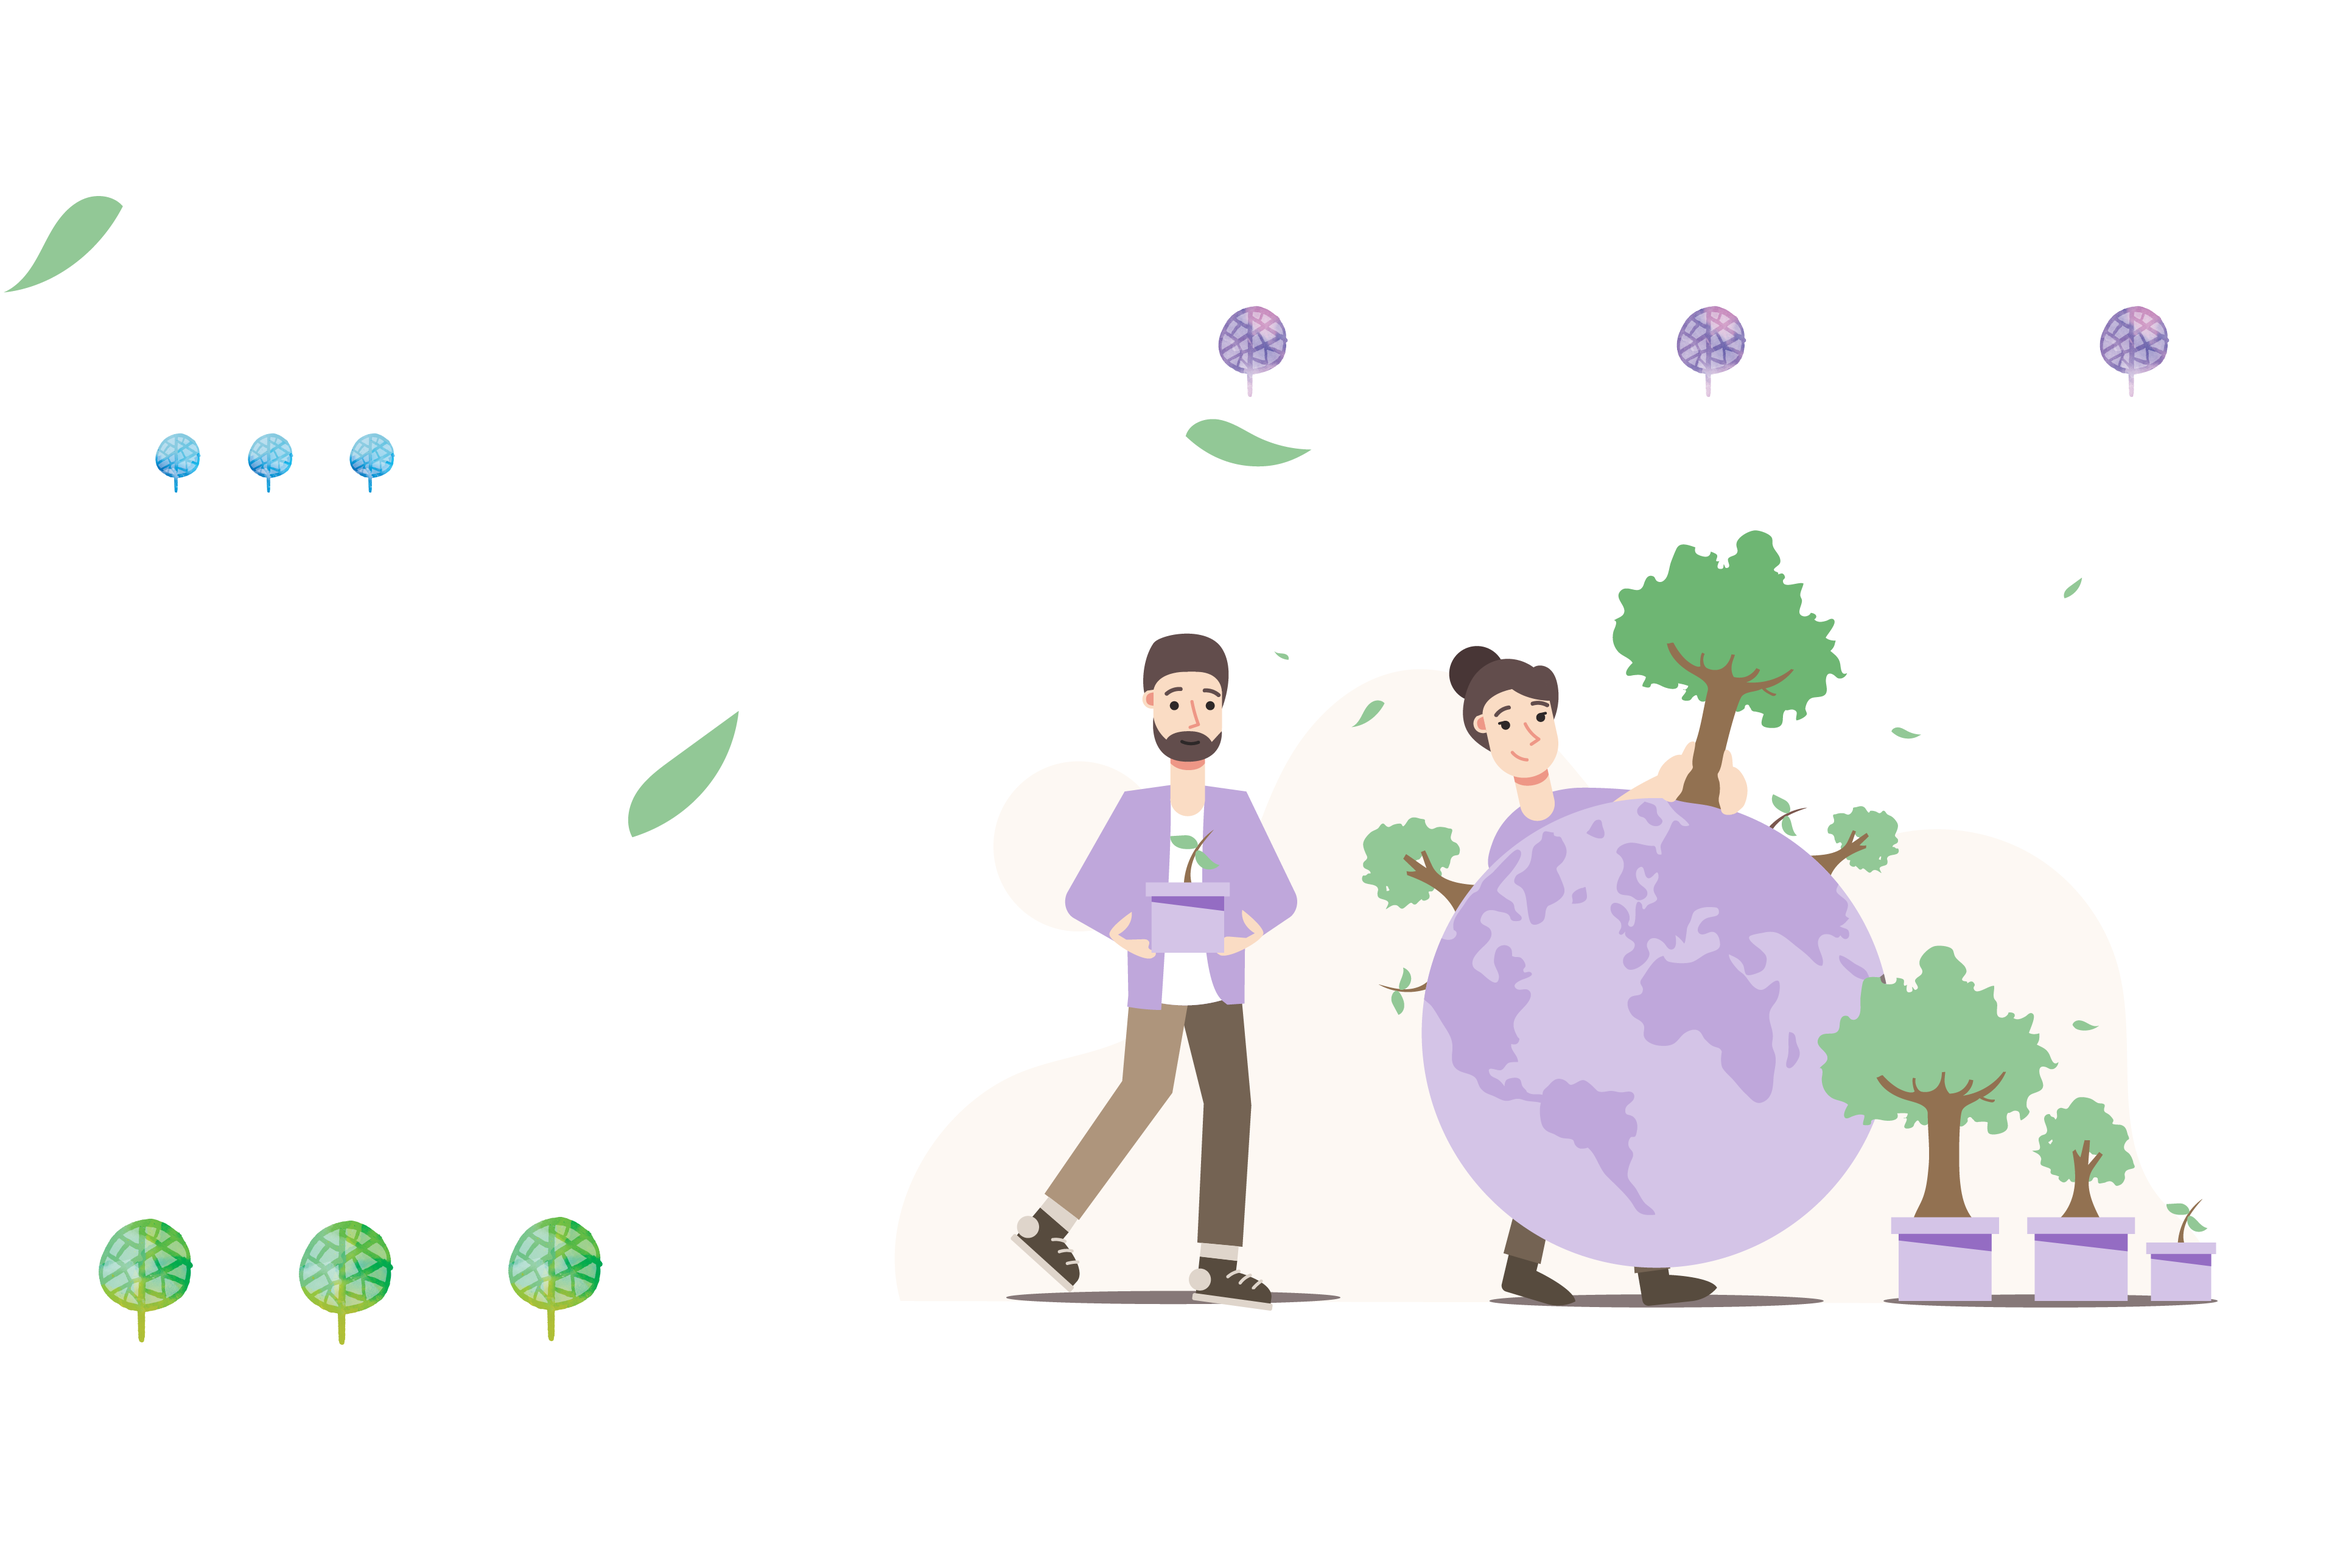
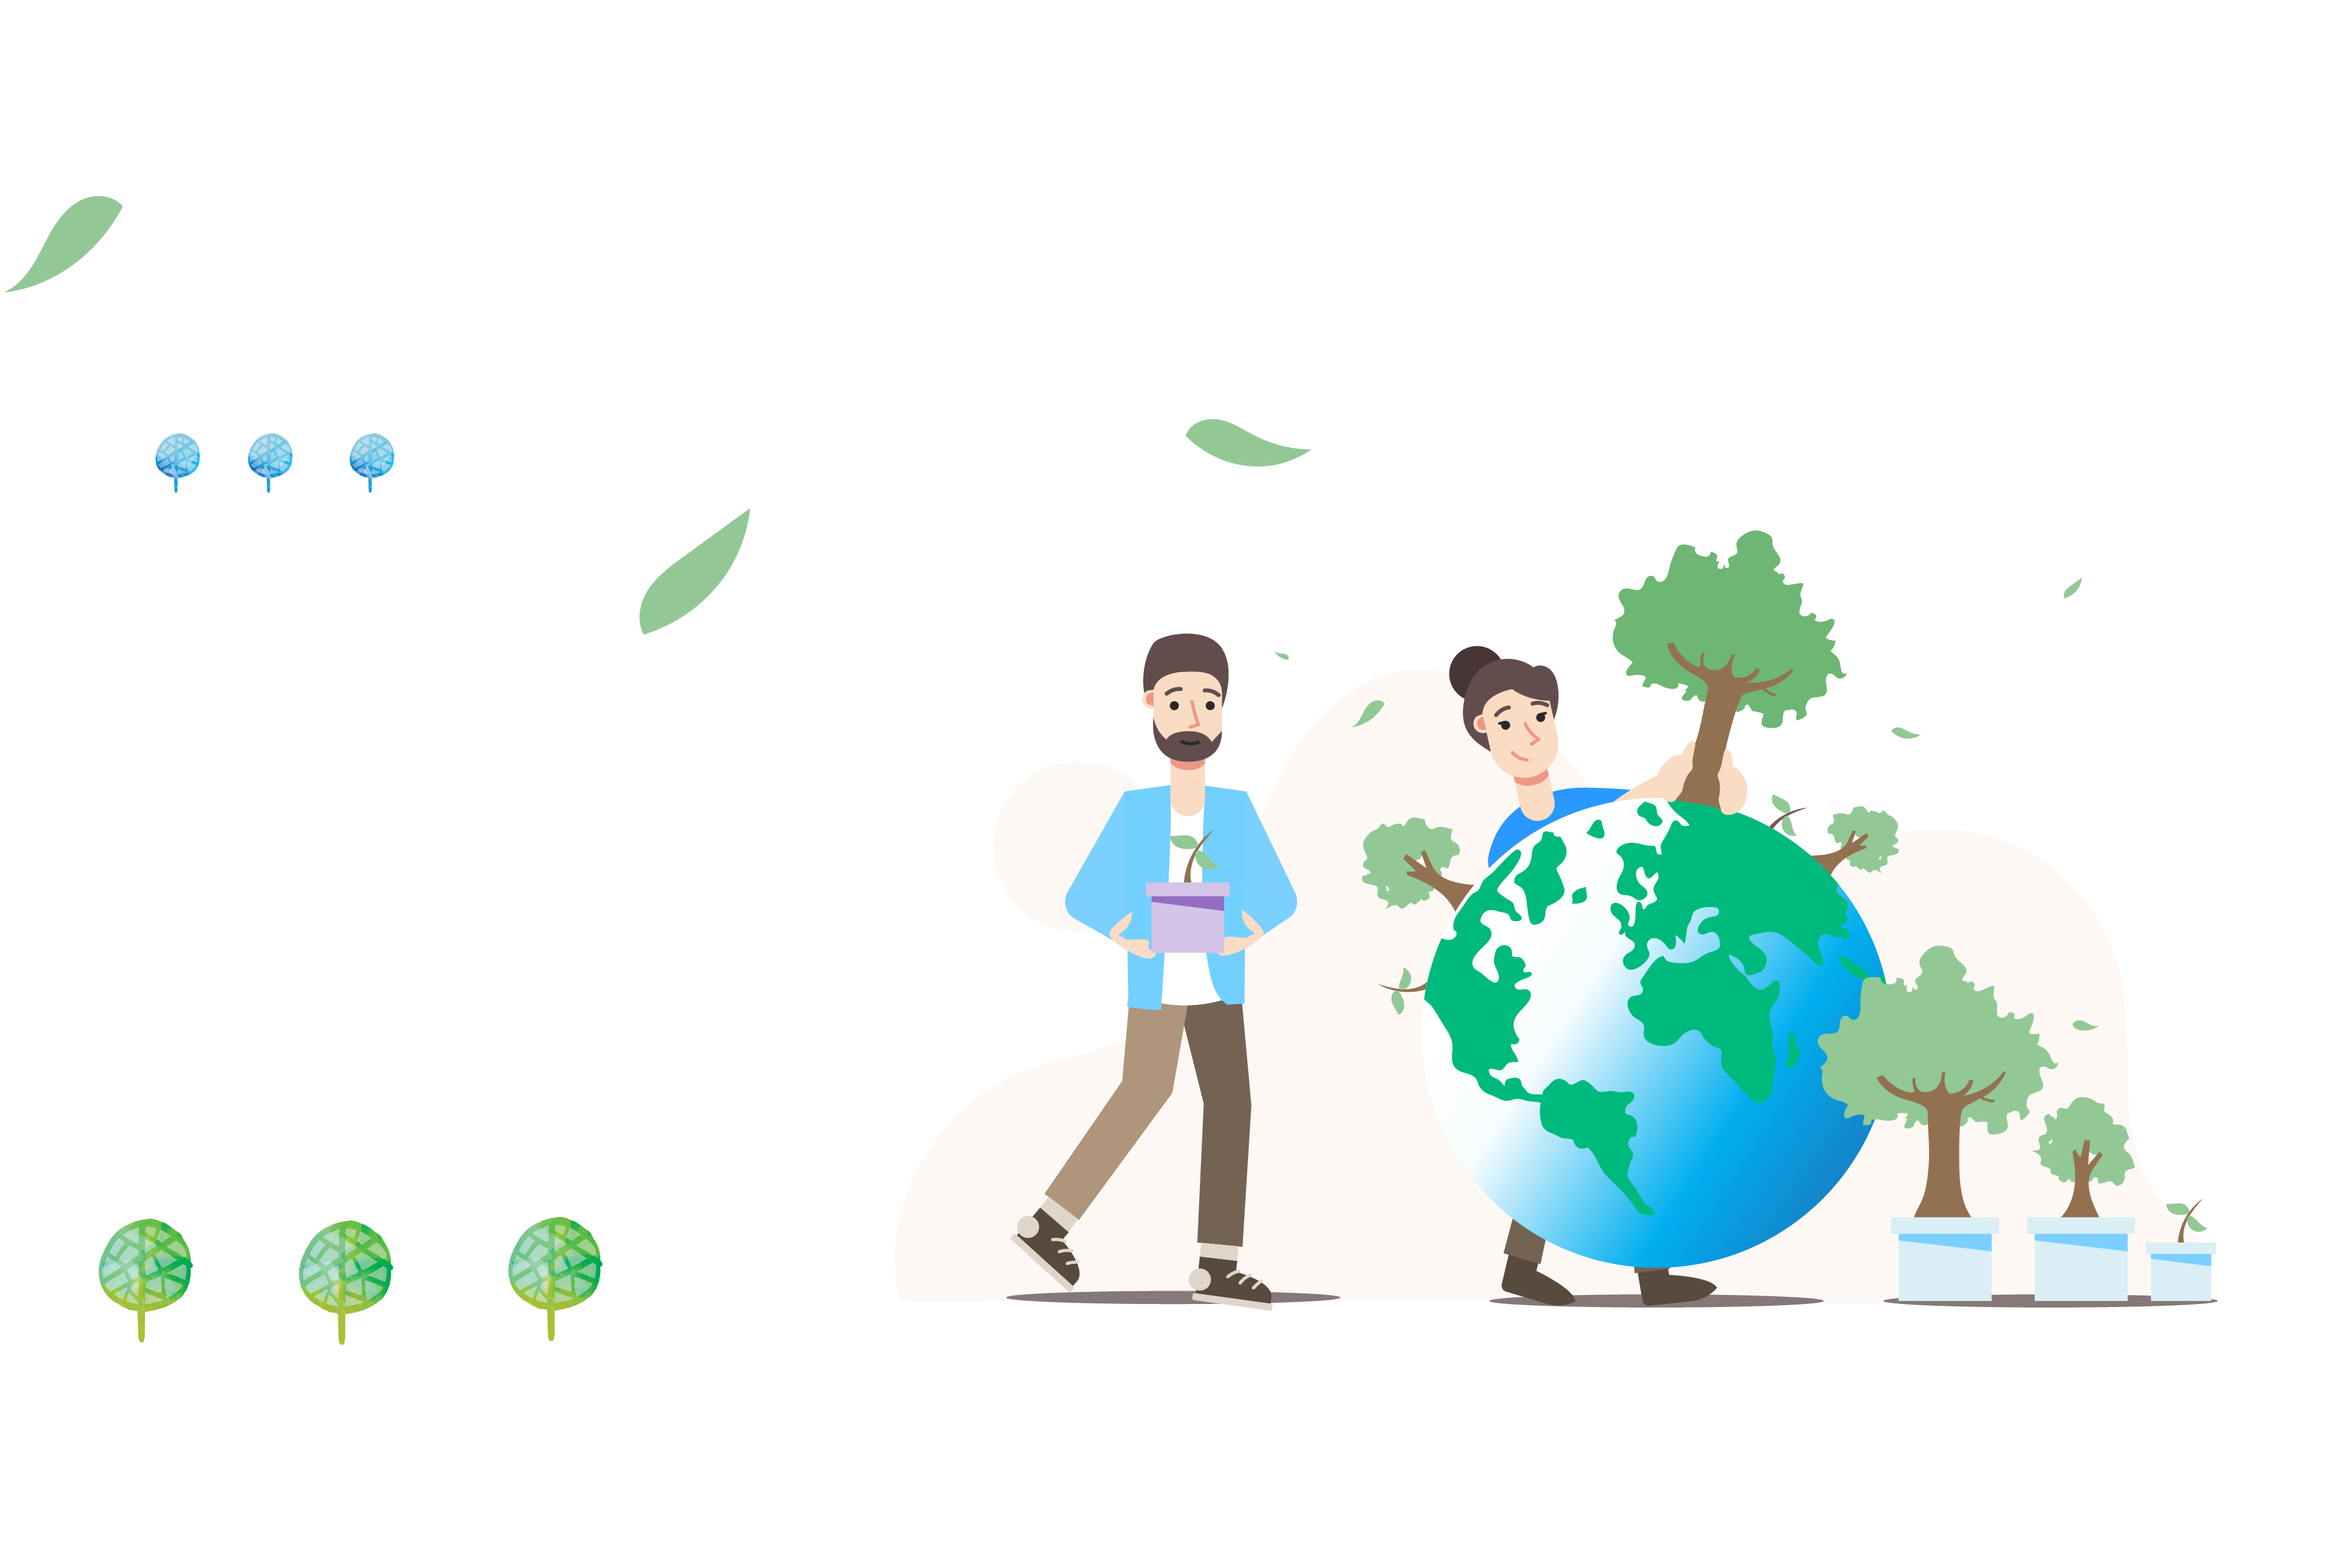
[UPLOAD]
메인페이지 테마 색상변경 및
배경이미지 변경

diff --git a/nextree/public/css/style.css b/nextree/public/css/style.css
@@ -29,9 +29,25 @@
 @import url("../fonts/et-line-font/style.css");
 @import url("../fonts/icofont/icofont.min.css");
 
-* {
-    --body-font: "DM Sans", Helvetica, Arial, sans-serif;
-    --title-font: "DM Sans", Helvetica, Arial, sans-serif;
+@import url("https://fonts.googleapis.com/css2?family=Jua&display=swap");
+@font-face {
+    font-family: "Cafe24SsurroundAir";
+    src: url("https://cdn.jsdelivr.net/gh/projectnoonnu/noonfonts_2105_2@1.0/Cafe24SsurroundAir.woff")
+      format("woff");
+    font-weight: normal;
+    font-style: normal;
+  }
+
+
+  * {
+    --body-font: "Jua", sans-serif;
+    --title-font: "Jua", sans-serif;
+}
+
+.orange {
+    background: linear-gradient(to bottom, #FFB319, #FF2442) !important;
+
+
 }
 
 /* ================================================== */
@@ -2695,6 +2711,7 @@ button.btn-main:hover,
     -moz-box-shadow: 3px 3px 30px 0px rgba(var(--secondary-color-rgb), 0.5);
     box-shadow: 3px 3px 30px 0px rgba(var(--secondary-color-rgb), 0.5);
 }
+
 
 a.btn-slider:hover:after {
     color: #222;

diff --git a/nextree/src/views/Main.vue b/nextree/src/views/Main.vue
@@ -49,7 +49,7 @@
                       <h1 class="wow fadeInUp" data-wow-delay=".75s">
                         우리 함께 나무를 심어요.                     
                       </h1>
-                      <p class="wow fadeInUp lead" data-wow-delay="1s">
+                      <p class="wow fadeInUp lead mainp" data-wow-delay="1s">
                         환경오염으로 황폐화되고 있는 지구에는 나무가 필요합니다. <br>
                         넥스트리는 묘목 기부로 건강한 숲, 지속가능한 사회를 만듭니다.<br>
                         넥스트리는 매일 성장하고 있습니다. 그만큼 지구도 건강해지고 있어요. <br>

diff --git a/nextree/src/css/style.css b/nextree/src/css/style.css
@@ -29,9 +29,22 @@
 @import url("../fonts/et-line-font/style.css");
 @import url("../fonts/icofont/icofont.min.css");
 
+@import url("https://fonts.googleapis.com/css2?family=Jua&display=swap");
+@font-face {
+    font-family: "Cafe24SsurroundAir";
+    src: url("https://cdn.jsdelivr.net/gh/projectnoonnu/noonfonts_2105_2@1.0/Cafe24SsurroundAir.woff")
+      format("woff");
+    font-weight: normal;
+    font-style: normal;
+  }
+
+
+
+
+
 * {
-    --body-font: "DM Sans", Helvetica, Arial, sans-serif;
-    --title-font: "DM Sans", Helvetica, Arial, sans-serif;
+    --body-font: "Jua", sans-serif;
+    --title-font: "Jua", sans-serif;
 }
 
 /* ================================================== */

diff --git a/nextree/public/css/colors/scheme-01.css b/nextree/public/css/colors/scheme-01.css
@@ -1,7 +1,15 @@
 :root {
-  --primary-color: #403f83;
-  --primary-color-rgb: 64, 63, 131;
+  --primary-color: linear-gradient(315deg, #abe9cd 0%, #3eadcf 74%);
+  --primary-color-rgb: 16, 108, 189;
 
-  --secondary-color: #8364E2;
-  --secondary-color-rgb: 131, 100, 226;
+  --secondary-color: linear-gradient(315deg, #abe9cd 0%, #3eadcf 74%);
+  --secondary-color-rgb: 64, 208, 230; 
+
+  original--primary: #403f83;
+  orignal-color-rgb: 64, 63, 131;
+  original--secondary: #8364E2;
+  orignal-color-rgb: 131, 100, 226; 
+
+  green-gradient: linear-gradient(to bottom, #00C853, #B2FF59);
+
 }

diff --git a/nextree/src/App.vue b/nextree/src/App.vue
@@ -108,7 +108,7 @@
                   </li>
                 </ul>
                 <div class="menu_side_area">
-                  <button class="btn-main" @click="metamasklogin()">
+                  <button class="btn-main orange" @click="metamasklogin()">
                     Connect Wallet
                   </button>
                   <span id="menu-btn"></span>
